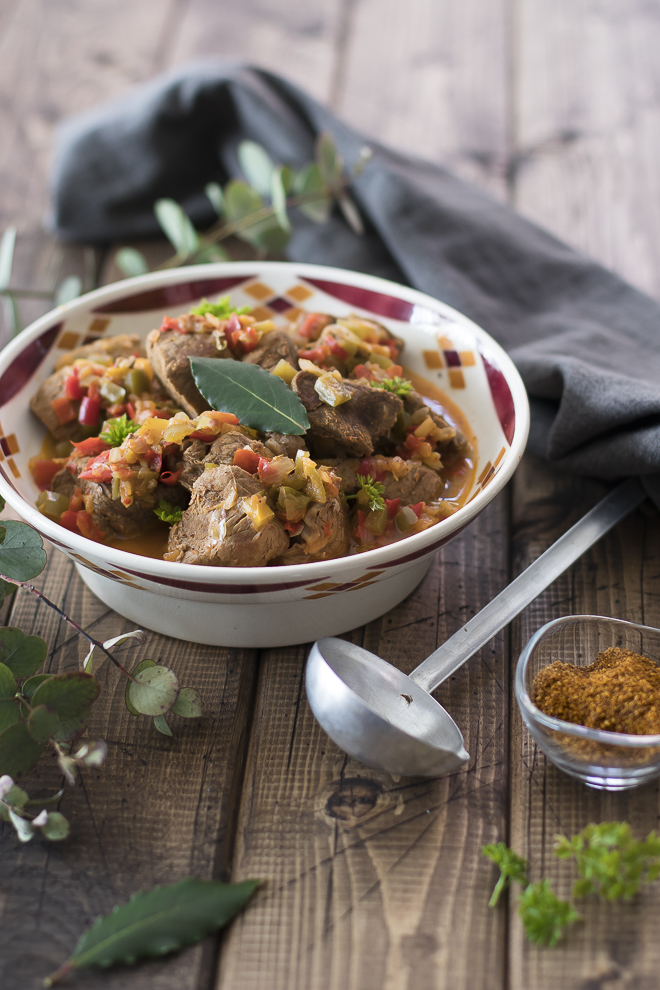
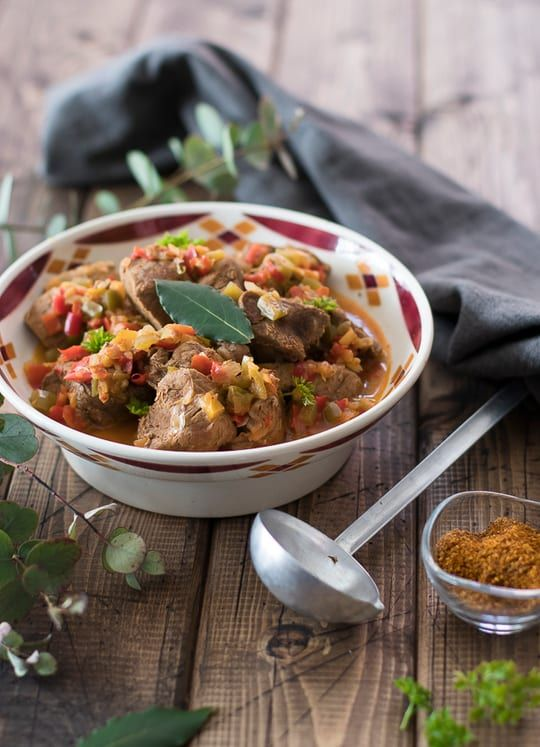
Chaque plat sa photo, chaque événement la sienne
Dix photos livrées, recadrées au format des autres — 540 × 747, le rapport
exact du cadre, 26 à 114 Ko — et rangées avec elles. Trois arrivaient en
`.jpeg`, elles sont normalisées.

LES SIX PLATS DU JOUR. Trois restaurants partageaient la même assiette et
le traiteur affichait sa vitrine à la place de son parmentier. Sur une
carte dont l'accroche est le menu du jour, ça se voit tout de suite : la
photo du plat est ce qui décide qu'on y va, elle ne peut pas être celle du
voisin. Chacun montre maintenant le sien — garbure, lasagnes, axoa,
basquaise, parmentier, et la formule du boulanger.

LES QUATRE ÉVÉNEMENTS ne tombent plus sur le dégradé. Le concert demandait
un vrai zoom : le groupe était aux deux tiers de l'image, donc sous le
voile qui porte le titre et le prix — recadré serré, il est maintenant à sa
place.

CORRIGÉ EN VÉRIFIANT : la pastille du haut passait sous « Y aller » sur les
cartes de menu, dont le titre de moment est long (« 11 h – 13 h · Les deux
plats du jour »). Le plafond de largeur existait déjà, mais recopié trois
fois — une par couleur de carte — et jamais pour le cas général. Il est
maintenant posé une seule fois pour toutes les cartes, ce qui règle aussi
les prochaines.

Vérifié au navigateur à 402 et 360 px : les six restaurants montrent chacun
leur plat, les quatre événements chargent, plus aucune image en erreur,
plus aucun chevauchement, et le balayage tactile passe toujours ses quatre
cas.
[…]

diff --git a/src/app/autour-de-moi/apercu-habitant.tsx b/src/app/autour-de-moi/apercu-habitant.tsx
@@ -2352,10 +2352,8 @@ export function ApercuHabitant() {
         .ap-dessus.emb .cd-quoi i{font-size:17px;}
         .ap-dessus.emb .cd-prix b{color:#B8CEFF;}
         .ap-dessus.emb .cd-prix em{background:#7DA8FF;color:#06121F;}
-        .ap-dessus.emb .cd-reste{max-width:calc(100% - 132px);color:#06121F;font-weight:850;
-          background:linear-gradient(140deg,#9FBEFF,#5C8FF0);border-color:transparent;
-          overflow:hidden;white-space:nowrap;text-overflow:ellipsis;display:block;
-          line-height:1.35;}
+        .ap-dessus.emb .cd-reste{color:#06121F;font-weight:850;
+          background:linear-gradient(140deg,#9FBEFF,#5C8FF0);border-color:transparent;}
         /* Le composant prefixe cette pastille d'un sablier : juste pour une
            echeance, faux pour un poste — « On recrute » ne s'epuise pas a midi.
            Le sablier saute, le texte parle seul. */
@@ -2387,6 +2385,15 @@ export function ApercuHabitant() {
           letter-spacing:.01em;}
         .ap-recrute-l em{flex:none;font-style:normal;font-size:17px;color:#7DA8FF;}
 
+        /* LA PASTILLE DU HAUT PARTAGE SA LIGNE AVEC « Y ALLER ».
+           Sans plafond elle passe dessous et se coupe au milieu d'un mot —
+           constate sur l'invitation, puis sur l'embauche, puis sur le menu du
+           jour dont le titre de moment est long. Une regle pour toutes plutot
+           qu'une copie par couleur : le defaut est le meme partout. */
+        .ap-dessus .cd-reste{max-width:calc(100% - 132px);overflow:hidden;
+          white-space:nowrap;text-overflow:ellipsis;display:block;line-height:1.35;}
+        .ap-dessus .cd-reste i{margin-right:6px;}
+
         /* L'INVITATION.
            LE DEFAUT MESURE : « les 3 reponses ne donnent pas du tout envie,
            aucune photo, pas d'avis, pas de detail, pas de prix, le mode swipe a
@@ -2406,12 +2413,8 @@ export function ApercuHabitant() {
         .ap-dessus.invit .cd-quoi{font-size:17.5px;font-weight:850;letter-spacing:-.02em;
           color:#FFE39A;}
         .ap-dessus.invit .cd-quoi i{font-size:17px;}
-        /* La pastille partage sa ligne avec « Y aller » : sans plafond, elle
-           passe dessous et l'heure se coupe en deux (mesuré a 360 et 402 px). */
-        .ap-dessus.invit .cd-reste{max-width:calc(100% - 132px);color:#04150E;font-weight:850;
-          background:linear-gradient(140deg,#F7C948,#E09B12);border-color:transparent;
-          overflow:hidden;white-space:nowrap;text-overflow:ellipsis;display:block;
-          line-height:1.35;}
+        .ap-dessus.invit .cd-reste{color:#04150E;font-weight:850;
+          background:linear-gradient(140deg,#F7C948,#E09B12);border-color:transparent;}
         /* En bloc plutot qu'en flex : text-overflow ne s'applique pas a un
            noeud de texte nu dans un conteneur flex. L'ecart se refait a la main. */
         .ap-dessus.invit .cd-reste i{margin-right:6px;}
@@ -2614,10 +2617,8 @@ export function ApercuHabitant() {
         .ap-dessus.ev .cd-quoi{color:#F9C0DC;}
         .ap-dessus.ev .cd-prix b{color:#F9C0DC;}
         .ap-dessus.ev .cd-prix em{background:#F472B6;color:#2A0716;}
-        .ap-dessus.ev .cd-reste{max-width:calc(100% - 132px);color:#2A0716;font-weight:850;
-          background:linear-gradient(140deg,#F9A8D4,#EC4899);border-color:transparent;
-          overflow:hidden;white-space:nowrap;text-overflow:ellipsis;display:block;
-          line-height:1.35;}
+        .ap-dessus.ev .cd-reste{color:#2A0716;font-weight:850;
+          background:linear-gradient(140deg,#F9A8D4,#EC4899);border-color:transparent;}
         .ap-dessus.ev .cd-reste i{display:none;}
         .ap-metier.evenement{color:#2A0716;background:#F472B6;border-color:transparent;}
         .ap-metier.tout{color:#04150E;background:#3DE2A6;border-color:transparent;}

diff --git a/src/lib/direct/apercu-habitant.ts b/src/lib/direct/apercu-habitant.ts
@@ -613,8 +613,8 @@ const CARTES: CarteAutour[] = [
       plat: "Garbure landaise, magret grillé",
       description: "Pommes sarladaises · Pastis landais en dessert",
       prix: "19 €",
-      photo: "/direct/plat-du-jour.jpg",
-      cadrage: "68%",
+      photo: "/direct/plat-garbure.jpg",
+      cadrage: "50%",
     },
     moments: [
       {
@@ -700,7 +700,7 @@ const CARTES: CarteAutour[] = [
       plat: "Lasagnes maison",
       description: "Salade de saison · Prêtes tout de suite, à emporter",
       prix: "11 €",
-      photo: "/direct/portion-a-emporter.jpg",
+      photo: "/direct/plat-lasagnes.jpg",
       cadrage: "50%",
     },
     moments: [
@@ -752,8 +752,8 @@ const CARTES: CarteAutour[] = [
       plat: "Axoa de veau",
       description: "Riz de pays · Gâteau basque · Sous les arcades",
       prix: "16 €",
-      photo: "/direct/plat-du-jour.jpg",
-      cadrage: "68%",
+      photo: "/direct/plat-axoa.jpg",
+      cadrage: "50%",
     },
     moments: [
       {
@@ -813,8 +813,8 @@ const CARTES: CarteAutour[] = [
       plat: "La formule du midi",
       description: "Sandwich pain de campagne · Part de tarte · Boisson",
       prix: "8,50 €",
-      photo: "/direct/sortie-du-four.jpg",
-      cadrage: "100%",
+      photo: "/direct/plat-formule.jpg",
+      cadrage: "50%",
     },
     moments: [
       {
@@ -864,7 +864,7 @@ const CARTES: CarteAutour[] = [
       plat: "Poulet basquaise",
       description: "Riz · Fromage de brebis · Servi à la grande table",
       prix: "17 €",
-      photo: "/direct/tablee-du-soir.jpg",
+      photo: "/direct/plat-basquaise.jpg",
       cadrage: "50%",
     },
     moments: [
@@ -909,8 +909,8 @@ const CARTES: CarteAutour[] = [
       plat: "Parmentier de canard",
       description: "En barquette · Salade · À réchauffer ou à manger sur place",
       prix: "12 €",
-      photo: "/direct/vitrine-du-soir.jpg",
-      cadrage: "72%",
+      photo: "/direct/plat-parmentier.jpg",
+      cadrage: "50%",
     },
     moments: [
       {
@@ -1431,6 +1431,9 @@ export function carteAffichee(c: CarteAutour, heure: number): CarteDirect {
       ville: c.ville,
       distance: c.distance,
       itineraire: c.itineraire,
+      // COURT, PARCE QUE LA PASTILLE PARTAGE SA LIGNE AVEC « Y ALLER ». Le
+      // titre du moment porte l'information ; l'heure seule ne dit rien, et
+      // les deux ensemble ne tiennent pas.
       reste: m
         ? seJoueMaintenant(m, heure)
           ? `${m.icone} ${m.titre}`

diff --git a/public/direct/LISEZ-MOI.md b/public/direct/LISEZ-MOI.md
@@ -1,7 +1,7 @@
 # Les photos d'illustration du Direct
 
-Quatorze photos de commerce et trois photos « de client », et elles ne servent
-qu'à DEUX cas :
+Vingt-quatre photos : quatorze commerces, six plats du jour, quatre événements
+de la ville, et trois photos « de client ». Elles ne servent qu'à DEUX cas :
 
 1. **Les cartes de la ville** montrées à l'acte 3 de la démonstration. Elles
    décrivent d'autres commerces que celui qui regarde — on ne peut donc pas y
@@ -34,6 +34,33 @@ l'image et le dégradé sont deux couches empilées, précisément pour ça).
 | `salon-neuf.jpg`       | Un salon de coiffure qui vient d'ouvrir           |
 | `bouquet-du-jour.jpg`  | Un bouquet devant une fenêtre                     |
 | `pose-ongles.jpg`      | Une main aux ongles posés                         |
+
+## Les six plats du jour
+
+C'est la photo qui décide qu'on y va — pas celle de la salle. Chaque restaurant
+montre SON plat : trois cartes partageant la même assiette se voyait
+immédiatement.
+
+| Fichier                  | Le plat                                         |
+|--------------------------|-------------------------------------------------|
+| `plat-garbure.jpg`       | Garbure landaise dans sa marmite                |
+| `plat-lasagnes.jpg`      | Lasagnes maison au plat                         |
+| `plat-axoa.jpg`          | Axoa de veau en cocotte                         |
+| `plat-basquaise.jpg`     | Poulet basquaise à la poêle                     |
+| `plat-parmentier.jpg`    | Parmentier de canard entamé                     |
+| `plat-formule.jpg`       | Sandwich, boisson et chips                      |
+
+## Les quatre événements de la ville
+
+Publiés par la mairie, l'office de tourisme, un musée, une association. Même
+cadre que les cartes de commerce.
+
+| Fichier                     | Ce qu'il montre                              |
+|-----------------------------|----------------------------------------------|
+| `concert-kiosque.jpg`       | Un concert, guitares et fumigènes             |
+| `marche-producteurs.jpg`    | Un étal de producteur                         |
+| `nocturne-musee.jpg`        | Un grand hall de musée                        |
+| `vide-grenier.jpg`          | Un étal de brocante                           |
 
 ## Les trois photos « de client »
 
